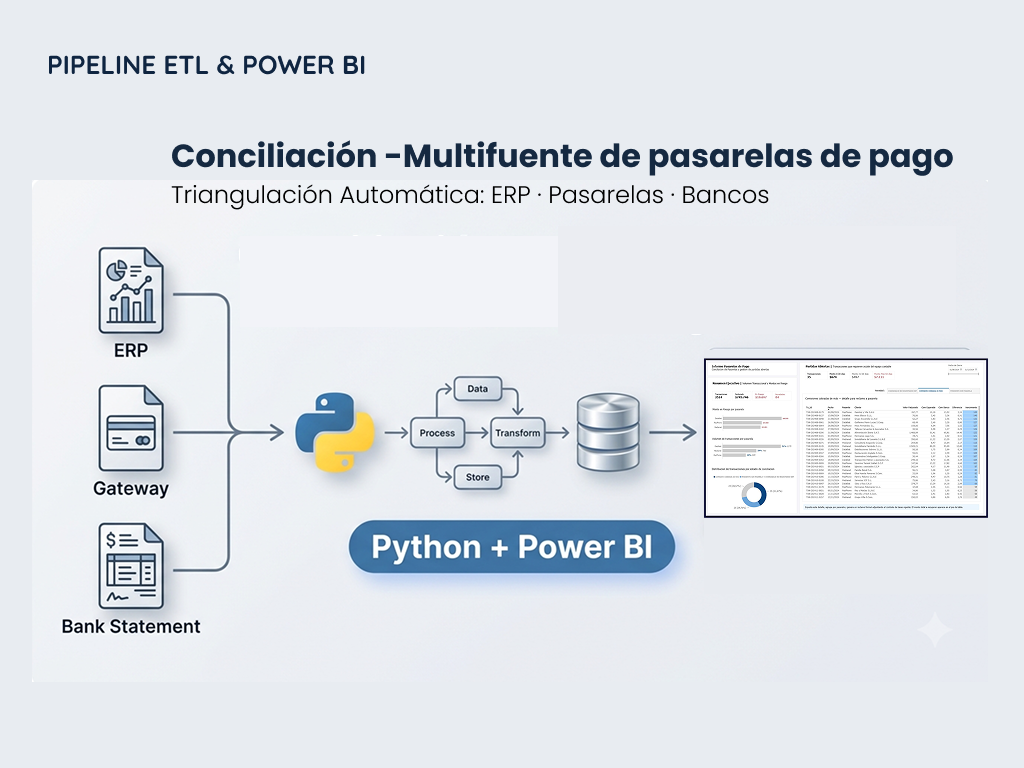
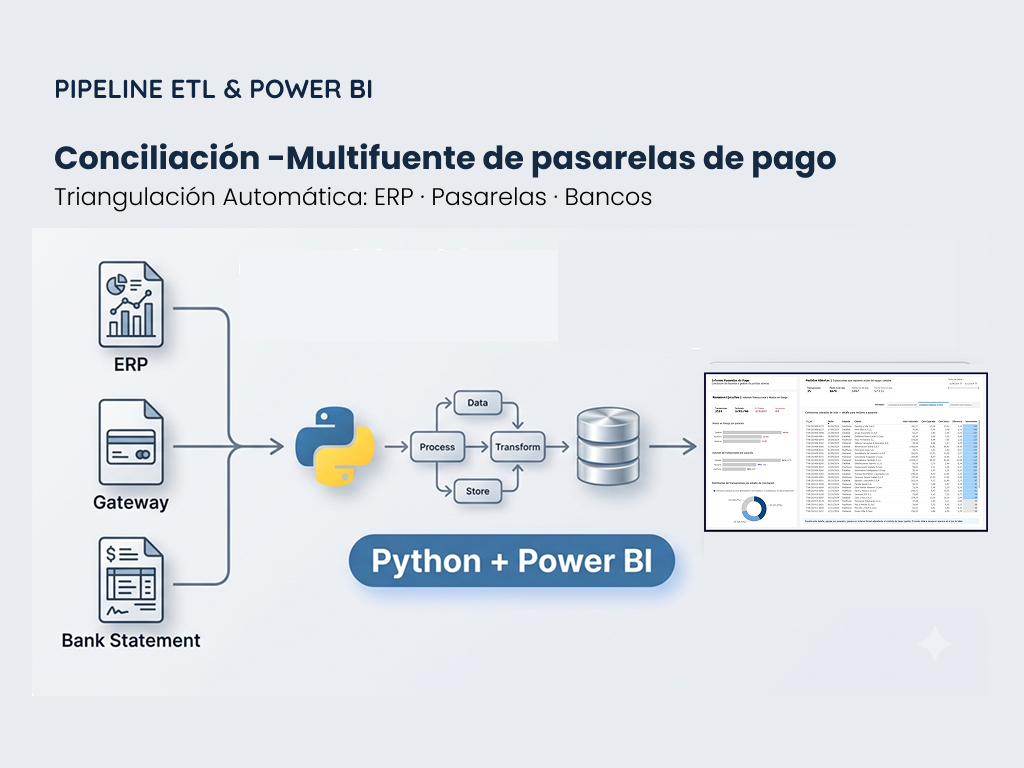
act

Changed region(s): [[0.0625, 0.3125, 0.9688, 0.8438], [0.0312, 0.1875, 0.9375, 0.2812], [0.0312, 0.0625, 0.375, 0.125]]

diff --git a/index.html b/index.html
@@ -260,7 +260,7 @@
                 </div>
                 <div class="portfolio-info p-3 d-flex flex-column justify-content-between flex-grow-1">
                   <h3 class="mb-3 text-center" style="font-size: 16px; font-weight: 600; line-height: 1.3;">
-                    <a href="https://github.com/Fabricio-BI/Automatizaci-n-de-Reportes-PDF-a-Excel" target="_blank" style="color: inherit; text-decoration: none;">Automatización de Facturas PDF a Excel</a>
+                    <a href="https://github.com/Fabricio-BI/Automatizaci-n-de-Reportes-PDF-a-Excel" target="_blank" style="color: inherit; text-decoration: none;">Ingesta y Registro Automático de Facturas PDF a Excel</a>
                   </h3>
                   <a href="https://github.com/Fabricio-BI/Automatizaci-n-de-Reportes-PDF-a-Excel" target="_blank" class="btn btn-sm btn-outline-dark w-100 mt-auto" style="font-weight: 600; border-color: #d1d5db;">
                     Ver en GitHub <i class="bi bi-github ms-1"></i>
